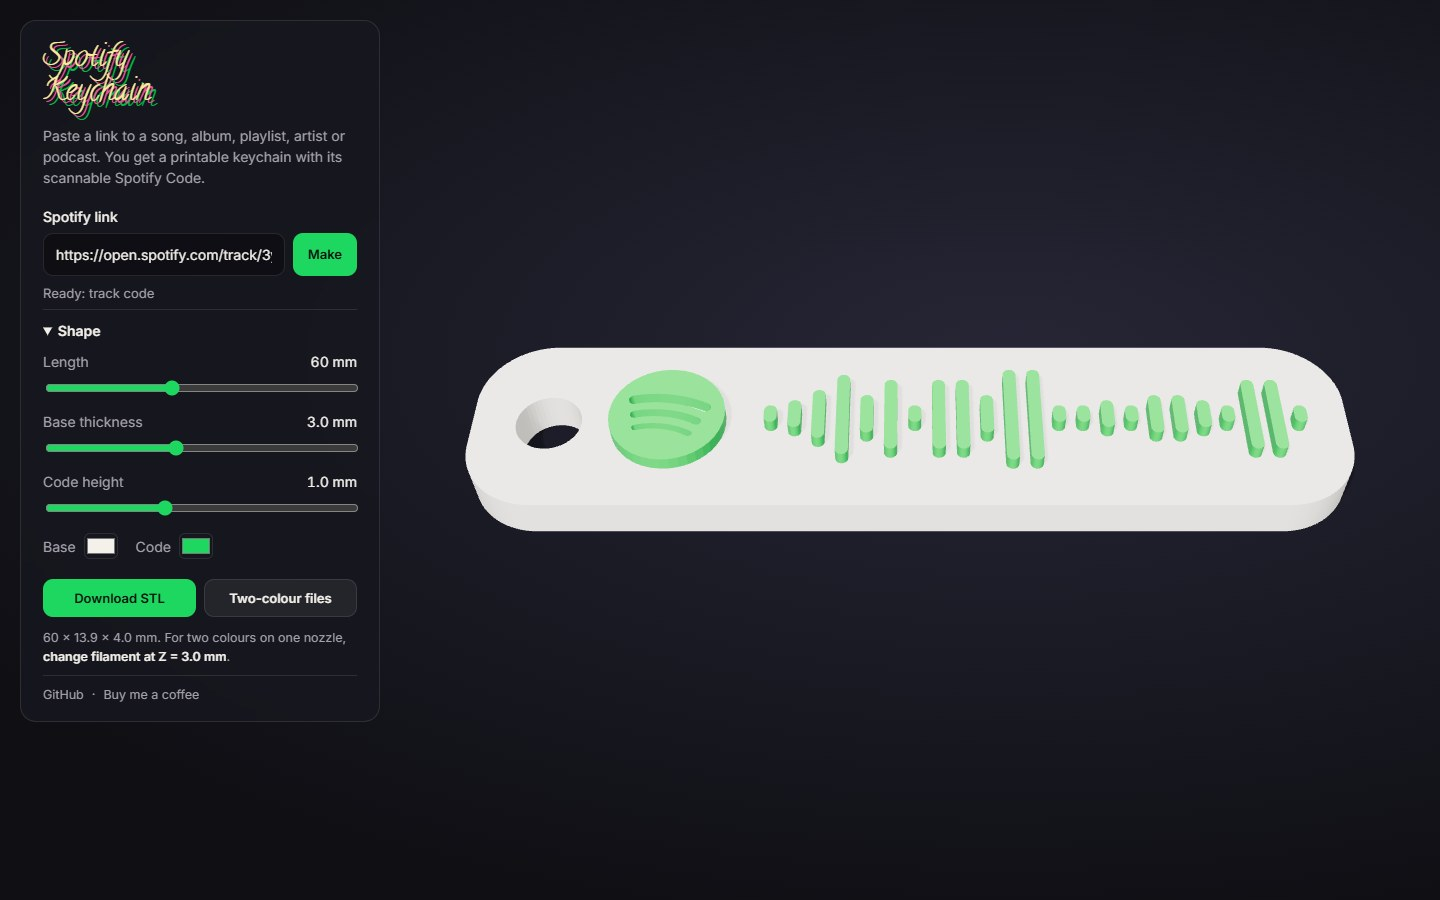
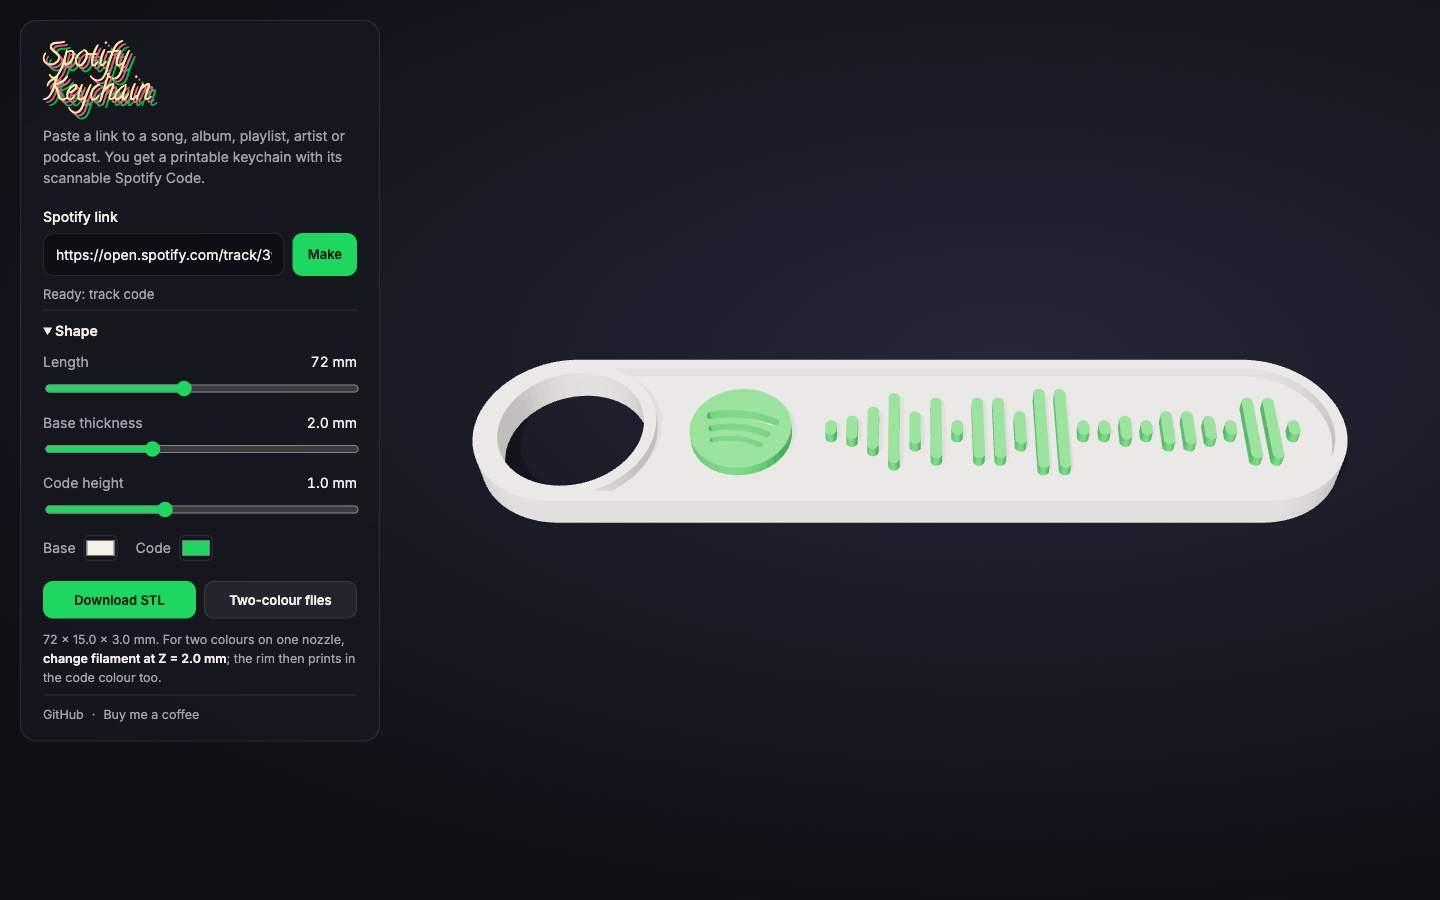
Restore the original keychain base
The rewrite replaced the hand-modelled base with a flat slab and a small hole. Rebuild the original shape parametrically: a tray with a 1 mm rim, a 12 mm key-ring hole with a raised ring at one rounded end, and the code standing on the tray floor flush with the rim. At the default 72 mm length the base measures 72 x 15 x 3 mm, as the original model did.

diff --git a/keychain.js b/keychain.js
@@ -1,20 +1,25 @@
 // SpotifySTL: builds a 3D-printable keychain carrying a Spotify Code, in the browser.
 //
 // The code itself comes from Spotify's public "scannables" service as an SVG (bars + logo).
-// Its shapes are extruded on top of a rounded base with a key-ring hole; both are generated
-// here in millimetres with Z up, the way slicers expect, and exported as binary STL.
+// Its shapes are extruded inside a rimmed tray with a key-ring hole at one end; both are
+// generated here in millimetres with Z up, the way slicers expect, and exported as binary STL.
 
 import * as THREE from 'three';
 import { OrbitControls } from 'three/addons/controls/OrbitControls.js';
 import { SVGLoader } from 'three/addons/loaders/SVGLoader.js';
 import { STLExporter } from 'three/addons/exporters/STLExporter.js';
 import { RoomEnvironment } from 'three/addons/environments/RoomEnvironment.js';
+import { mergeGeometries } from 'three/addons/utils/BufferGeometryUtils.js';
 import { toSpotifyUri } from './spotify.js';
 
 const DEFAULT_URI = 'spotify:track:3ylrCkU7BD4N7SNegCRRXY';
-const MARGIN = 3;      // mm of base around the code
-const HOLE_D = 4.5;    // key-ring hole diameter, mm
-const OVERLAP = 0.05;  // the code sinks this far into the base so the two bodies fuse cleanly
+// Base proportions, in mm, measured from the original keychain model.
+const RIM = 1;            // width of the raised rim, and of the ring around the hole
+const PAD_X = 2.8;        // tray floor left clear at each end of the code
+const PAD_Y = 2.3;        // tray floor left clear above and below the code
+const HOLE_WALL = 1.5;    // material between the key-ring hole and the long edges
+const HOLE_OFFSET = 0.5;  // the hole sits this far in from the centre of the rounded end
+const OVERLAP = 0.05;     // stacked bodies sink this far into the one below so they fuse cleanly
 
 const $ = (id) => document.getElementById(id);
 const ui = {
@@ -63,42 +68,75 @@ function transformShape(shape, fn) {
   return out;
 }
 
-function roundedRect(w, h, r) {
+/** A slot outline (a rectangle with semicircular ends), centred on the origin. */
+function stadium(length, width) {
+  const r = width / 2, x = length / 2 - r;
   const s = new THREE.Shape();
-  const x = -w / 2, y = -h / 2;
-  s.moveTo(x + r, y);
-  s.lineTo(x + w - r, y);
-  s.absarc(x + w - r, y + r, r, -Math.PI / 2, 0);
-  s.lineTo(x + w, y + h - r);
-  s.absarc(x + w - r, y + h - r, r, 0, Math.PI / 2);
-  s.lineTo(x + r, y + h);
-  s.absarc(x + r, y + h - r, r, Math.PI / 2, Math.PI);
-  s.lineTo(x, y + r);
-  s.absarc(x + r, y + r, r, Math.PI, 1.5 * Math.PI);
+  s.moveTo(-x, -r);
+  s.lineTo(x, -r);
+  s.absarc(x, 0, r, -Math.PI / 2, Math.PI / 2);
+  s.lineTo(-x, r);
+  s.absarc(-x, 0, r, Math.PI / 2, 1.5 * Math.PI);
   return s;
 }
 
-/** Base + code meshes for the given SVG and settings. */
+function circle(cx, r) {
+  const p = new THREE.Path();
+  p.absarc(cx, 0, r, 0, Math.PI * 2, true);
+  return p;
+}
+
+/**
+ * Base + code meshes for the given SVG and settings.
+ *
+ * The base is the original keychain: a tray with a raised rim, a large key-ring hole at one
+ * rounded end with a raised ring around it, and the code standing on the tray floor so that its
+ * top is flush with the rim. At 72 mm it has the original's proportions: 15 mm wide, a 12 mm hole.
+ */
 function buildKeychain(svgText, { length, thickness, relief }, materials) {
   const shapes = codeShapes(svgText);
   const b = boundsOf(shapes);
   const svgW = b.max.x - b.min.x, svgH = b.max.y - b.min.y;
 
-  const holeZone = HOLE_D + 2;  // hole plus a little wall before the code starts
-  const codeW = length - 2 * MARGIN - holeZone;
-  const scale = codeW / svgW;
+  // The width follows the code's height, and the hole end is as long as the keychain is wide,
+  // so the scale has to satisfy: length = width + PAD_X + code + PAD_X + RIM.
+  const scale = (length - 2 * (PAD_Y + RIM) - 2 * PAD_X - RIM) / (svgW + svgH);
   const codeH = svgH * scale;
-  const height = codeH + 2 * MARGIN;
-  const codeLeft = -length / 2 + MARGIN + holeZone;
+  const width = codeH + 2 * (PAD_Y + RIM);
+  const R = width / 2;
+  const left = -length / 2, right = length / 2;
 
-  // base: rounded slab with the key-ring hole
-  const base = roundedRect(length, height, Math.min(height / 2, 5));
-  const hole = new THREE.Path();
-  hole.absarc(-length / 2 + MARGIN + HOLE_D / 2, 0, HOLE_D / 2, 0, Math.PI * 2, true);
-  base.holes.push(hole);
-  const baseGeo = new THREE.ExtrudeGeometry(base, { depth: thickness, bevelEnabled: false, curveSegments: 24 });
+  const holeX = left + R + HOLE_OFFSET;
+  const holeR = R - HOLE_WALL;
+  const ringR = holeR + RIM;   // outer radius of the raised ring around the hole
+  const innerR = R - RIM;      // half-width of the tray
 
-  // code: SVG (y down) -> mm (y up), placed on top of the base
+  // floor: the full outline, from the bed up to the base thickness
+  const floor = stadium(length, width);
+  floor.holes.push(circle(holeX, holeR));
+  const floorGeo = new THREE.ExtrudeGeometry(floor, { depth: thickness, bevelEnabled: false, curveSegments: 32 });
+
+  // rim and ring: the same outline with the tray cut out of it, as tall as the code.
+  // The tray runs from the ring's arc to the inside of the far rounded end.
+  const wall = stadium(length, width);
+  const trayX = holeX + Math.sqrt(ringR * ringR - innerR * innerR);  // where the ring meets the long walls
+  const a = Math.asin(innerR / ringR);
+  const tray = new THREE.Path();
+  tray.moveTo(trayX, -innerR);
+  tray.lineTo(right - R, -innerR);
+  tray.absarc(right - R, 0, innerR, -Math.PI / 2, Math.PI / 2);
+  tray.lineTo(trayX, innerR);
+  tray.absarc(holeX, 0, ringR, a, -a, true);
+  wall.holes.push(circle(holeX, holeR), tray);
+  const wallGeo = new THREE.ExtrudeGeometry(wall, { depth: relief + OVERLAP, bevelEnabled: false, curveSegments: 32 });
+  wallGeo.translate(0, 0, thickness - OVERLAP);
+
+  const baseGeo = mergeGeometries([floorGeo, wallGeo]);
+  floorGeo.dispose();
+  wallGeo.dispose();
+
+  // code: SVG (y down) -> mm (y up), standing on the tray floor
+  const codeLeft = holeX + ringR + PAD_X;
   const toMm = (p) => new THREE.Vector2(codeLeft + (p.x - b.min.x) * scale, codeH / 2 - (p.y - b.min.y) * scale);
   const codeGeos = shapes.map((s) => {
     const g = new THREE.ExtrudeGeometry(transformShape(s, toMm), { depth: relief + OVERLAP, bevelEnabled: false, curveSegments: 12 });
@@ -109,7 +147,7 @@ function buildKeychain(svgText, { length, thickness, relief }, materials) {
   return {
     base: new THREE.Mesh(baseGeo, materials.base),
     code: codeGeos.map((g) => new THREE.Mesh(g, materials.code)),
-    size: { length, height, depth: thickness + relief },
+    size: { length, height: width, depth: thickness + relief },
   };
 }
 
@@ -179,7 +217,8 @@ function rebuild() {
   const { length, height, depth } = current.size;
   ui.tip.innerHTML =
     `${length.toFixed(0)} × ${height.toFixed(1)} × ${depth.toFixed(1)} mm. ` +
-    `For two colours on one nozzle, <strong>change filament at Z = ${s.thickness.toFixed(1)} mm</strong>.`;
+    `For two colours on one nozzle, <strong>change filament at Z = ${s.thickness.toFixed(1)} mm</strong>; ` +
+    `the rim then prints in the code colour too.`;
 }
 
 async function load(uri) {
@@ -257,7 +296,7 @@ ui.codeColor.addEventListener('input', () => materials.code.color.set(ui.codeCol
 // keep the keychain centred in the part of the screen the panel doesn't cover
 // back the camera off until the whole keychain fits the free part of the screen
 function fitCamera() {
-  const length = current ? current.size.length : 60;
+  const length = current ? current.size.length : 72;
   const panel = document.querySelector('.panel').getBoundingClientRect();
   const desktop = window.innerWidth > 640;
   const freeW = desktop ? window.innerWidth - panel.right : window.innerWidth;

diff --git a/index.html b/index.html
@@ -30,11 +30,11 @@
       <summary>Shape</summary>
       <div class="slider">
         <label for="length">Length <output id="lengthOut"></output></label>
-        <input id="length" type="range" min="40" max="90" step="1" value="60">
+        <input id="length" type="range" min="50" max="100" step="1" value="72">
       </div>
       <div class="slider">
         <label for="thickness">Base thickness <output id="thicknessOut"></output></label>
-        <input id="thickness" type="range" min="1.6" max="5" step="0.2" value="3">
+        <input id="thickness" type="range" min="1" max="4" step="0.2" value="2">
       </div>
       <div class="slider">
         <label for="relief">Code height <output id="reliefOut"></output></label>

diff --git a/README.md b/README.md
@@ -15,7 +15,7 @@ Turn any Spotify song, album, playlist, artist or podcast into a **3D-printable 
 1. In Spotify, choose **Share → Copy link**, paste the link into the box, and press **Make**.
 2. Adjust the length, base thickness and code height. The preview updates live.
 3. Choose **Download STL** for one file, or **Two-colour files** for the base and the code as separate bodies (for multi-material printers).
-4. To print two colours on a single-nozzle printer, add a filament change at the height shown under the buttons, which is the base thickness (3 mm by default).
+4. To print two colours on a single-nozzle printer, add a filament change at the height shown under the buttons, which is the base thickness (2 mm by default). The rim and the ring around the hole are as tall as the code, so they print in the second colour too.
 
 Point the Spotify app's camera (Search → camera icon) at the printed code and it opens your song.
 
@@ -24,8 +24,8 @@ A keychain can be shared by URL. The page keeps the Spotify URI in its address, 
 ## How it works
 
 - **The code.** Spotify serves every code as an SVG from its public scannables endpoint: one rounded rectangle per bar, plus the logo. The page fetches that SVG and keeps the dark shapes, recognised by their fill colour rather than their position in the file. It maps them from SVG units (y down) to millimetres (y up) and extrudes them with three.js.
-- **The base.** A rounded slab with a key-ring hole, generated to fit the code with an even margin. Its size follows your settings.
-- **Print-ready geometry.** The model is built in millimetres with Z up, the way slicers expect. The code sinks 0.05 mm into the base so the two bodies fuse cleanly. Shapes are rebuilt point by point instead of mirrored with a negative scale, which would turn the STL inside out.
+- **The base.** A tray with a raised rim and a large key-ring hole at one rounded end, with a raised ring around the hole. The code stands on the tray floor, its top flush with the rim, which protects the bars from wear. The proportions come from the original hand-modelled keychain (72 × 15 × 3 mm with a 12 mm hole) and scale with the length you choose.
+- **Print-ready geometry.** The model is built in millimetres with Z up, the way slicers expect. The code and the rim sink 0.05 mm into the floor so the bodies fuse cleanly. Shapes are rebuilt point by point instead of mirrored with a negative scale, which would turn the STL inside out.
 - **Links.** `spotify.js` accepts `open.spotify.com` links, including `?si=` tracking, `/intl-xx/` locales and `/embed/` paths, as well as `spotify:` URIs. It is covered by unit tests.
 
 No build step. `index.html`, `main.css`, `keychain.js` and `spotify.js` are the whole app, and three.js loads from a CDN through an import map.
